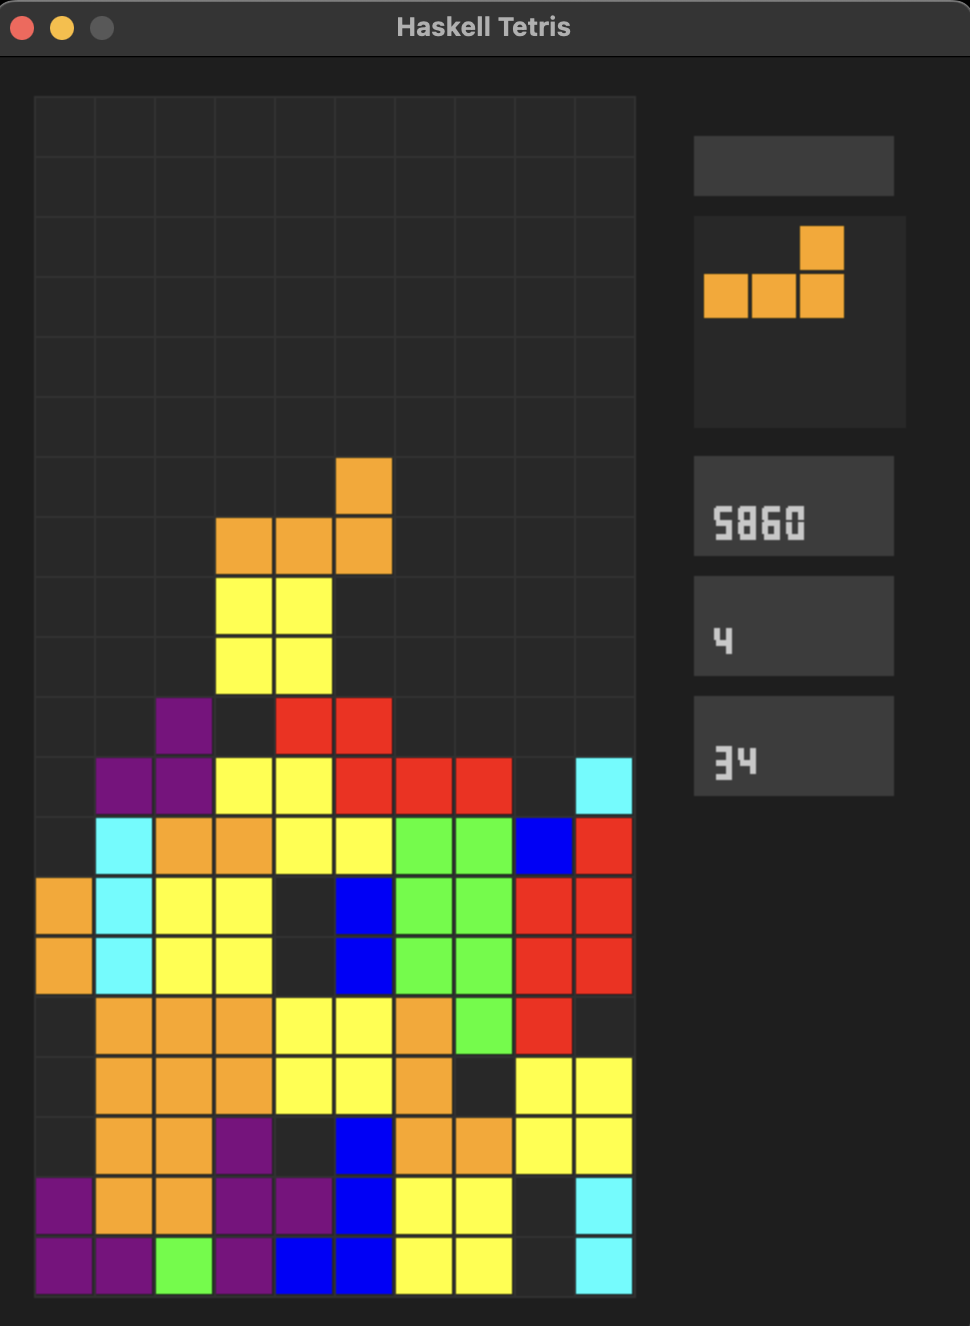
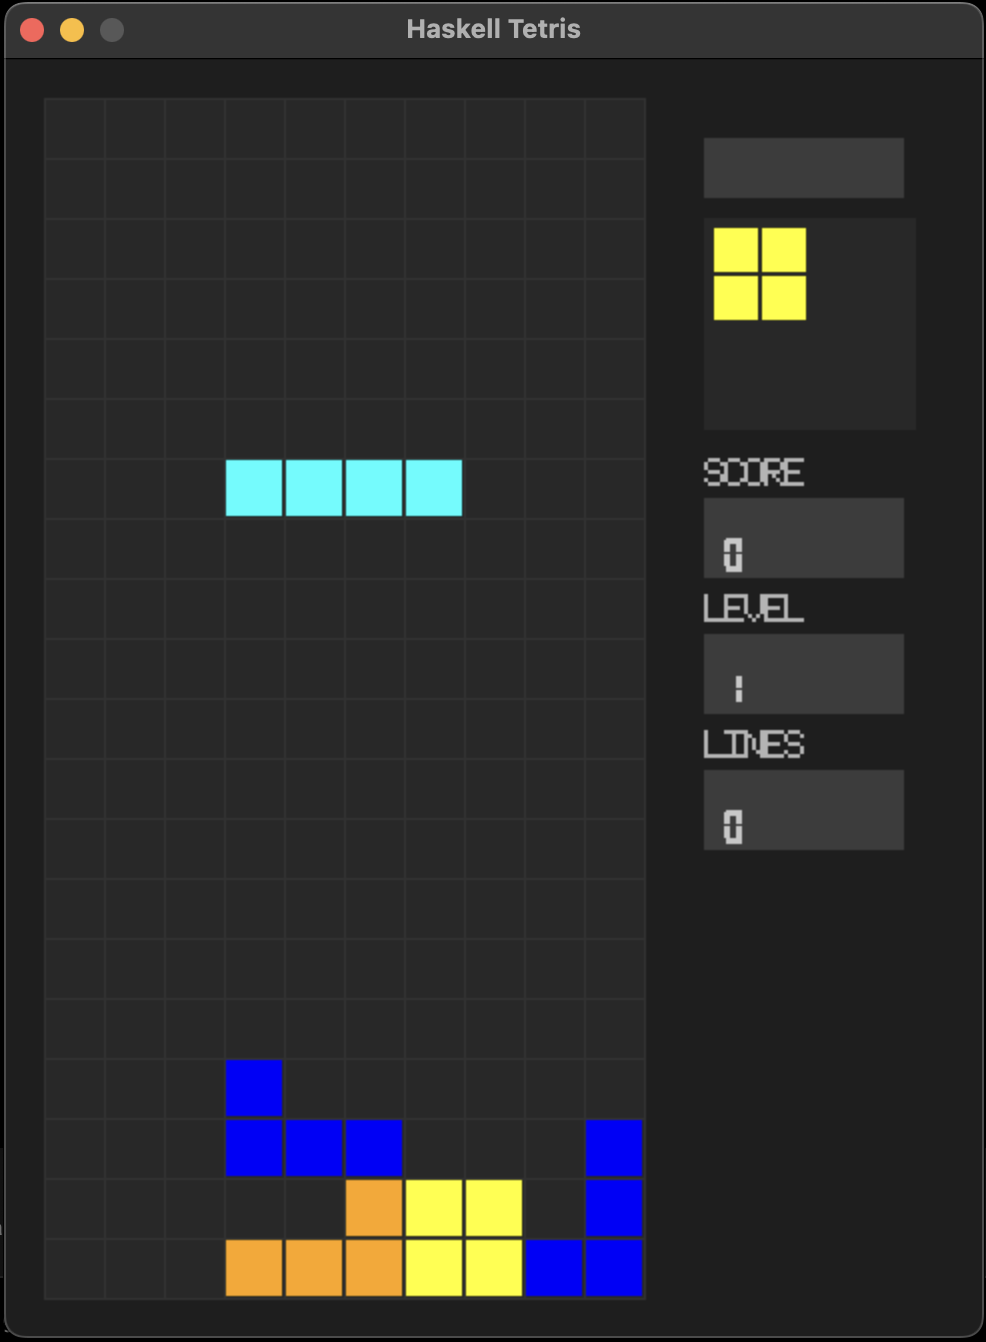
Add labels to score display and update screenshot
- Add pixel-based text labels (SCORE, LEVEL, LINES) above numeric displays
- Implement simple 5x7 pixel font renderer for labels
- Scale screenshot to 350px width in README
- Update screenshot with new labeled UI

🤖 Generated with [Claude Code](https://claude.com/claude-code)

diff --git a/README.md b/README.md
@@ -6,7 +6,7 @@
 
 A pure functional Tetris clone written in Haskell using SDL2 for rendering.
 
-![Haskell Tetris Screenshot](assets/screenshot.png)
+<img src="assets/screenshot.png" alt="Haskell Tetris Screenshot" width="350">
 
 ## Features
 
